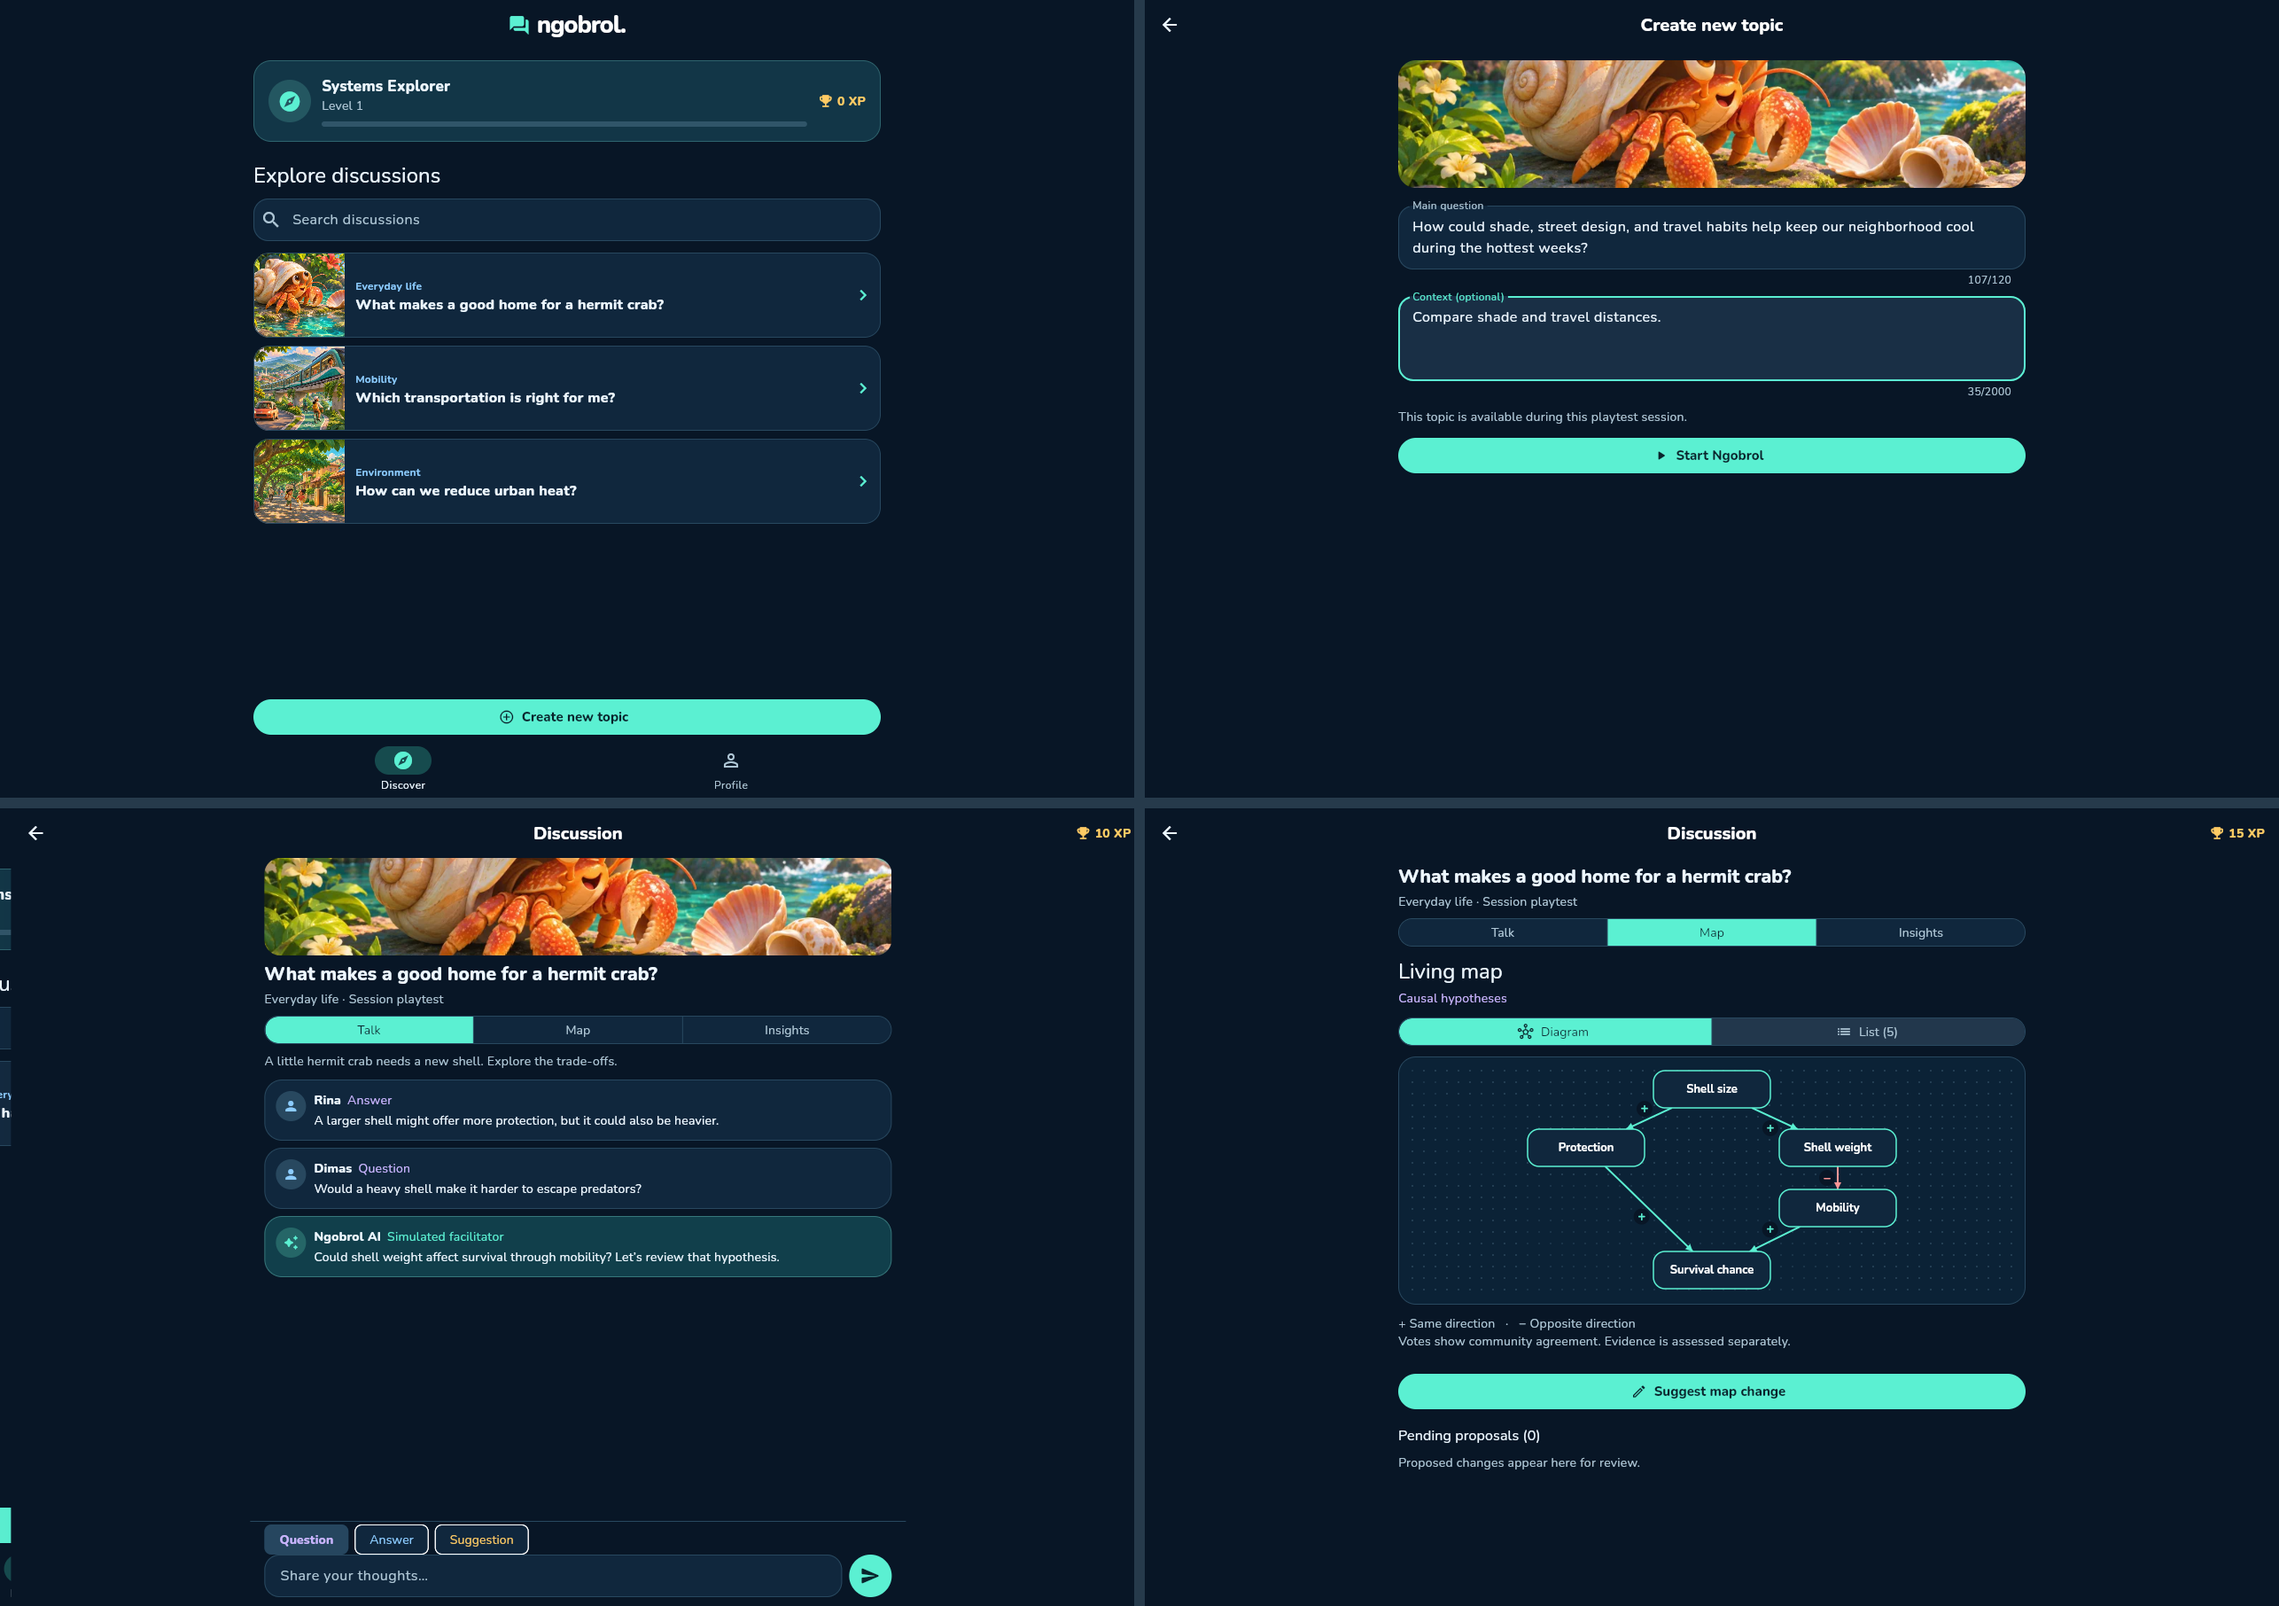
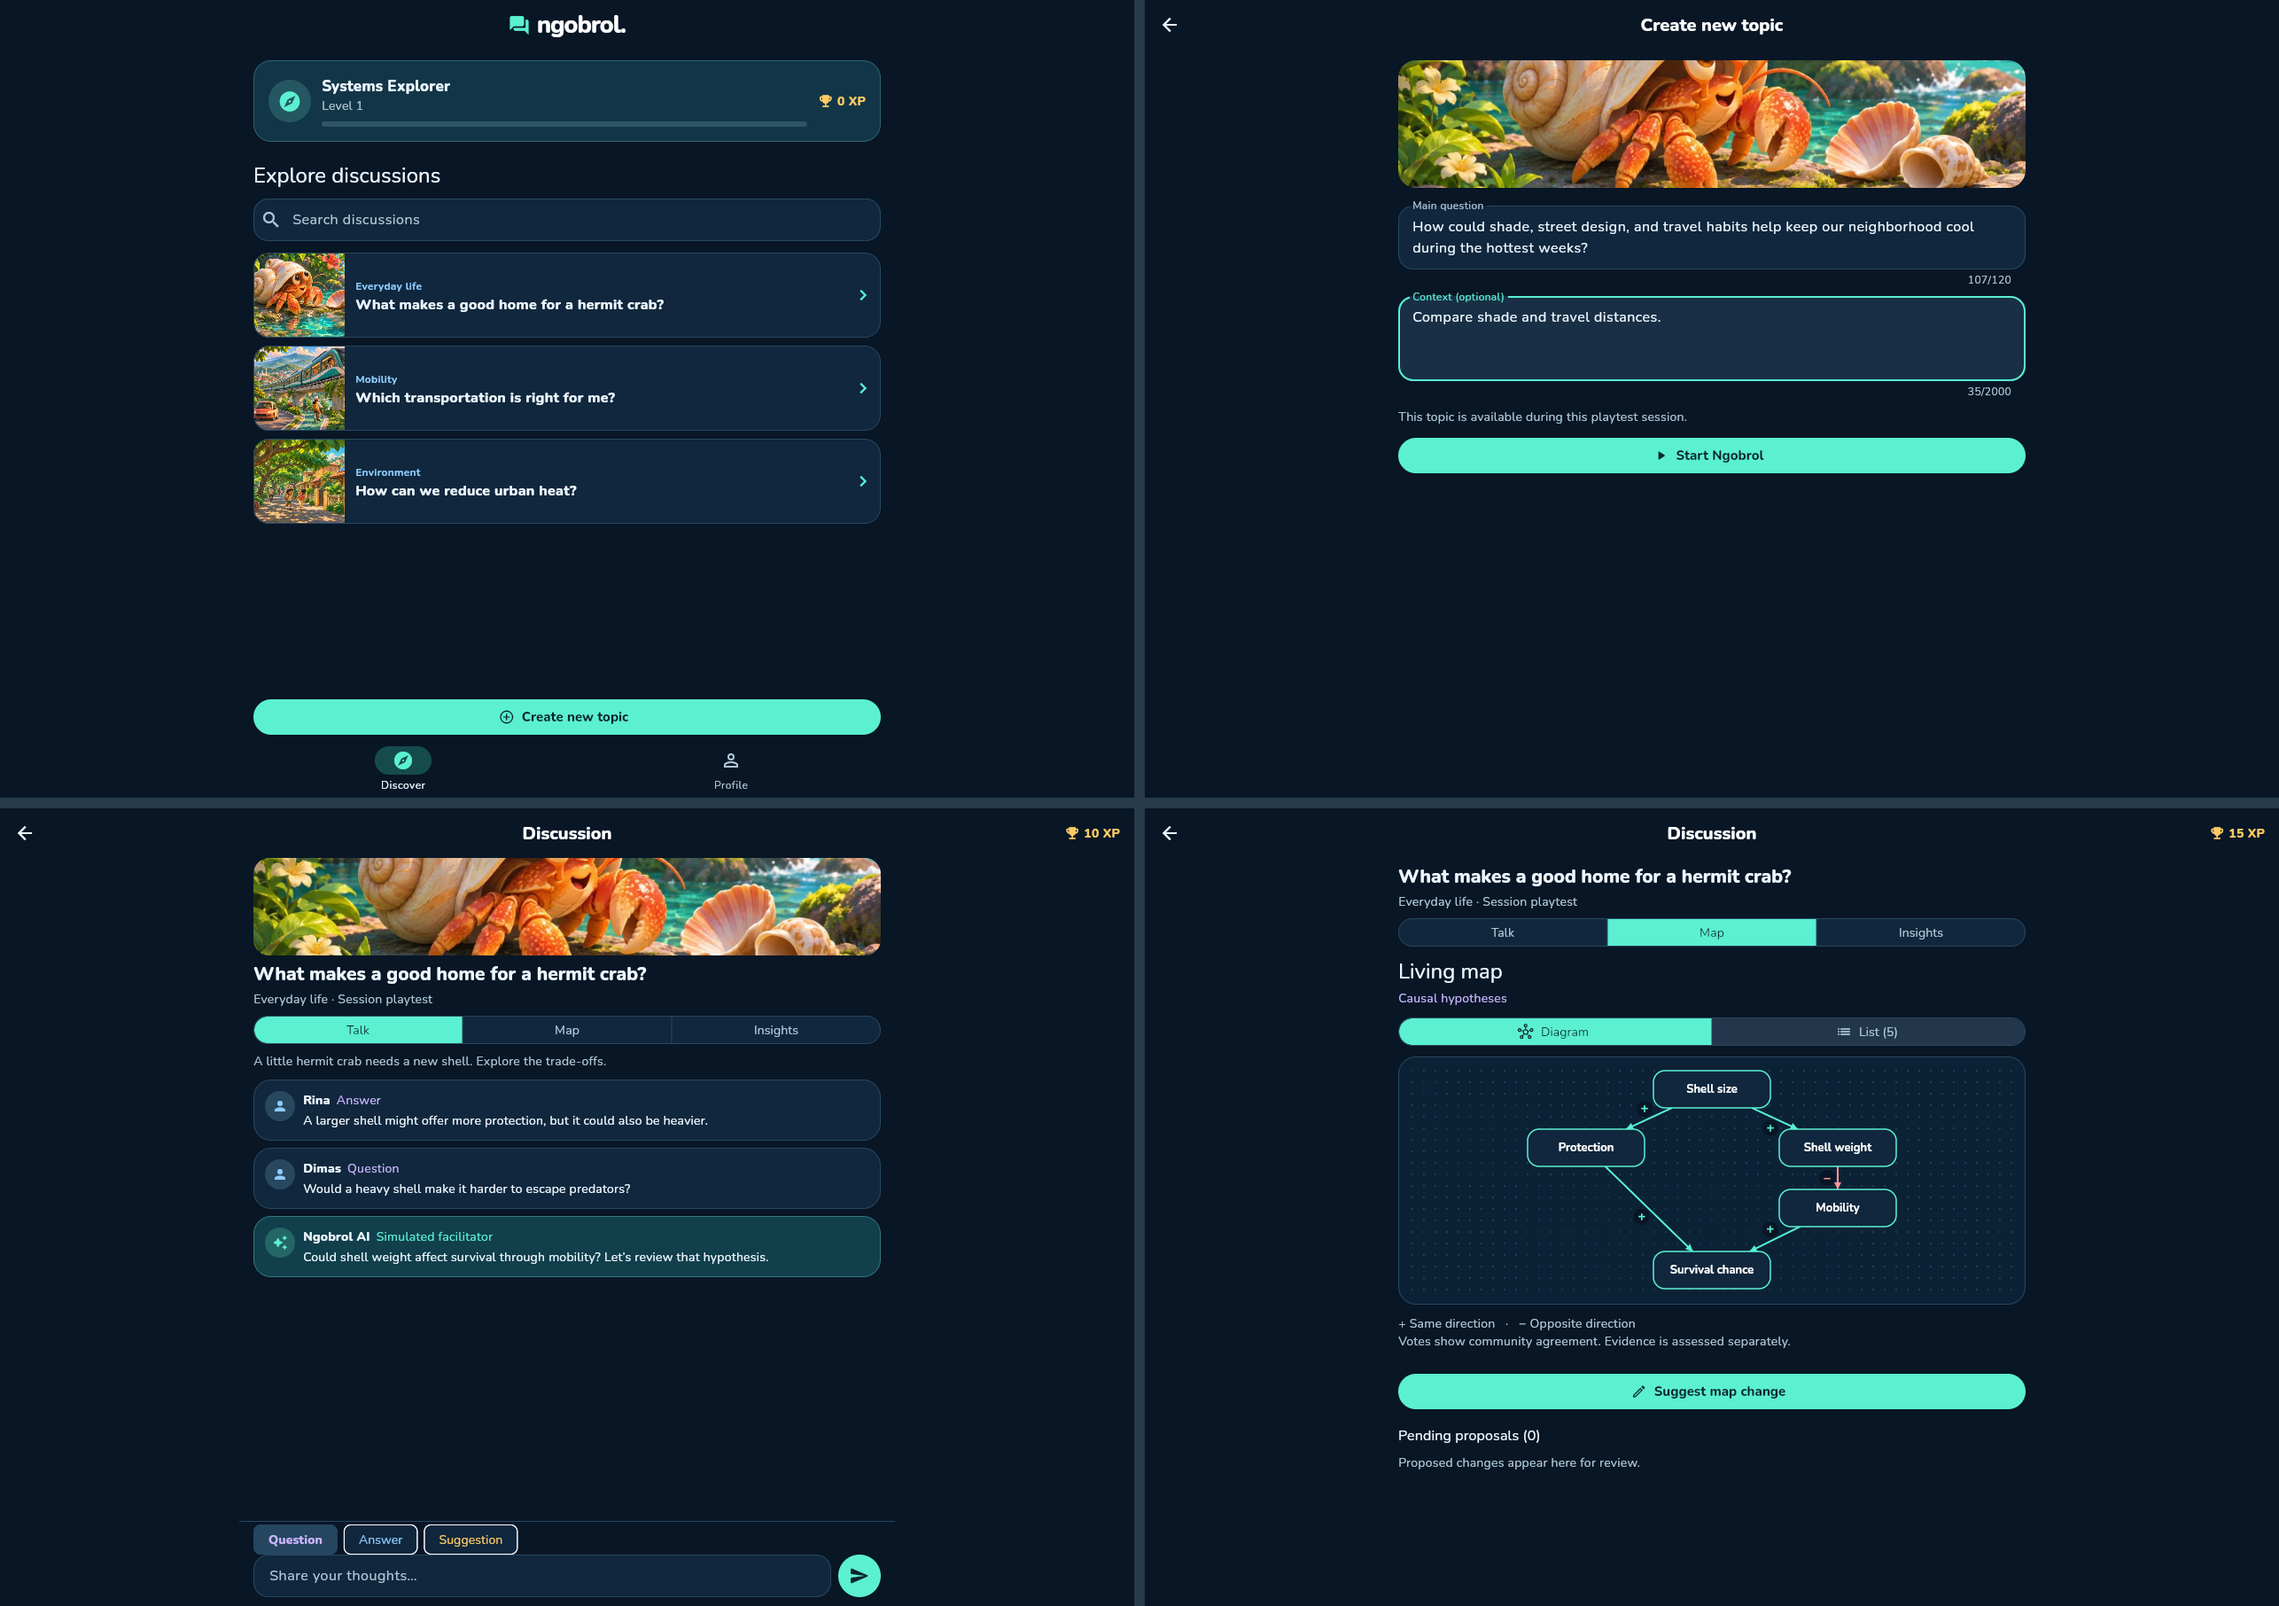
Document the CI blocker and finalize release screenshots

diff --git a/docs/HANDOVER.md b/docs/HANDOVER.md
@@ -33,6 +33,7 @@ The optional Supabase code shares posts across the three seeded topics. It displ
 - `flutter pub get --enforce-lockfile`, `flutter analyze --no-pub`, `flutter test --no-pub`, and `flutter build web --no-web-resources-cdn --no-pub` succeeded on Flutter 3.35.2 and Dart 3.9.0. All eight tests passed. The build reports Flutter's existing Cupertino icon tree-shaking warning.
 - Chrome completed the full offline walkthrough at 360 × 800 and 1280 × 900 with external requests blocked. Search, creation, narrow composition, topic revisit, keyboard vote activation and withdrawal, pending proposals, and XP passed. The final screens and comparison are in the [playtest guide](WEB_PLAYTEST.md).
 - Isolated PostgreSQL 14 verified an authenticated insert with a returned ID, a read and write by a second identity, and rejection of unauthenticated reads and mismatched author IDs. The Auth claim was stubbed. The separate fake-backend tests verify one local award on repeated submission and deduplication of acknowledged rows by ID.
-- The draft PR workflow builds a downloadable static release. Hosted preview, durable multiplayer, native host verification, and server-side AI are later roadmap milestones.
+- The draft PR workflow is configured to package the static release. GitHub blocked the first job before execution because the account is locked for billing. The local build and archive are verified. [GitHub Actions run](https://github.com/bofandra/ngobrol/actions/runs/46093342723)
+- Hosted preview, durable multiplayer, native host verification, and server-side AI are later roadmap milestones.
 
 Review the draft PR and the release screenshots before deciding where to host a preview. Update this handover after each milestone with the change, verification evidence, and the next open item.

diff --git a/docs/WEB_PLAYTEST.md b/docs/WEB_PLAYTEST.md
@@ -1,6 +1,6 @@
 # Flutter Web playtest
 
-Use the credential-free release from [draft PR #1](https://github.com/bofandra/ngobrol/pull/1) to try the core game. Download the `ngobrol-flutter-web` artifact from a successful **Flutter Web playtest** run, or build it with the [README commands](../README.md). Serve the extracted files over local HTTP.
+Build the credential-free release from [draft PR #1](https://github.com/bofandra/ngobrol/pull/1) using the [README commands](../README.md), then serve its files over local HTTP. The **Flutter Web playtest** workflow is configured to create a `ngobrol-flutter-web` artifact after a successful run. The account billing lock prevented the initial workflow from starting. [GitHub Actions run](https://github.com/bofandra/ngobrol/actions/runs/46093342723)
 
 ## Hermit crab walkthrough
 

diff --git a/README.md b/README.md
@@ -18,7 +18,7 @@ flutter build web --no-web-resources-cdn
 python3 -m http.server 8080 --bind 127.0.0.1 --directory build/web
 ```
 
-Open [the local preview](http://127.0.0.1:8080). The **ngobrol-flutter-web** artifact from the draft PR workflow contains the same web files. Extract it and point the server at the extracted directory. See the [web playtest guide](docs/WEB_PLAYTEST.md) for the walkthrough, screenshots, and verification.
+Open [the local preview](http://127.0.0.1:8080). After a successful draft PR workflow run, its **ngobrol-flutter-web** artifact will contain the same web files. Extract it and point the server at the extracted directory. See the [web playtest guide](docs/WEB_PLAYTEST.md) for the walkthrough, screenshots, and verification.
 
 ## Optional Supabase sandbox
 
